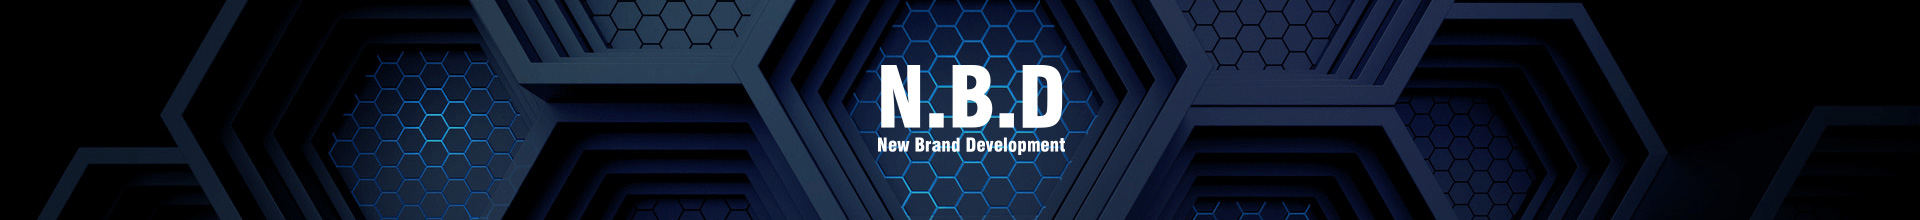
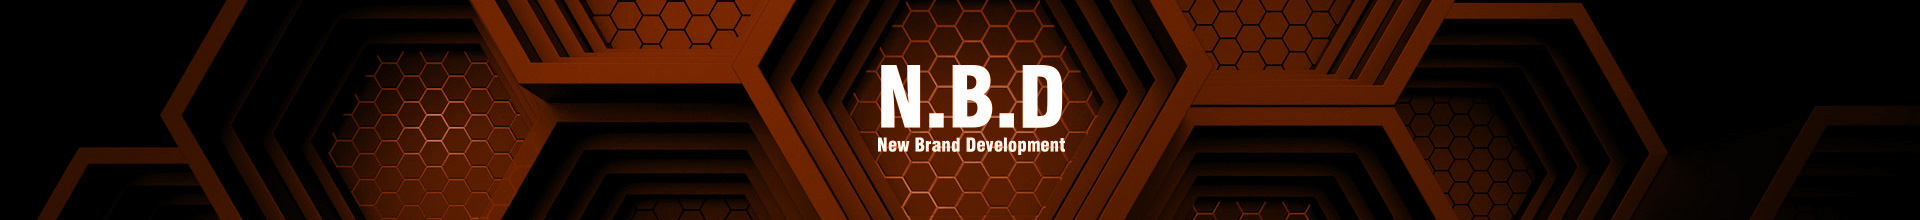
css

diff --git a/src/components/bobStar.vue b/src/components/bobStar.vue
@@ -20,7 +20,7 @@ export default {
         ctx = canvas.getContext("2d"),
         w = (canvas.width = window.innerWidth),
         h = (canvas.height = 650),
-        hue = 217,
+        hue = 18,
         stars = [],
         count = 0,
         maxStars = 1300; //星星数量
@@ -134,8 +134,10 @@ export default {
     top: 0;
     bottom: 0;
     right: 0;
-    background: url("11.jpg") no-repeat center center;
-    opacity: 0.15;
+    background: url("../images/nbd/11.jpg") no-repeat center center;
+    // background: #c66b44;
+    opacity: 0.3;
+    background-size: cover;
   }
 }
 </style>
